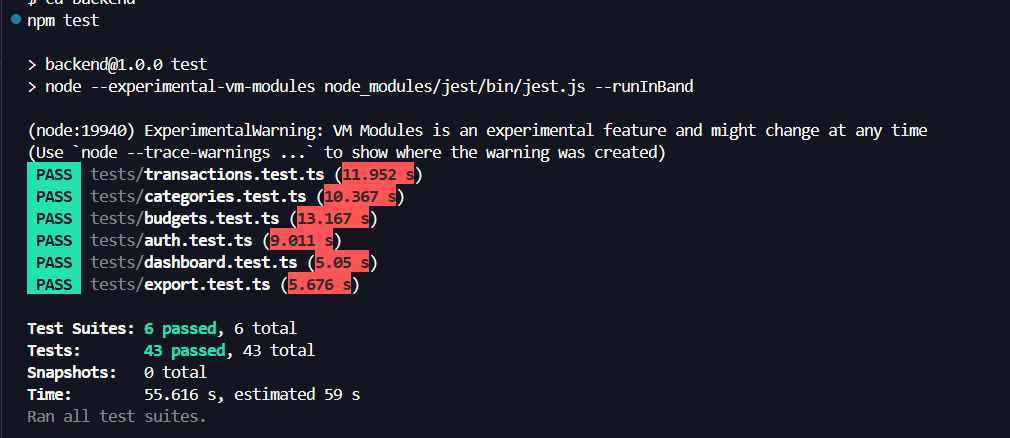
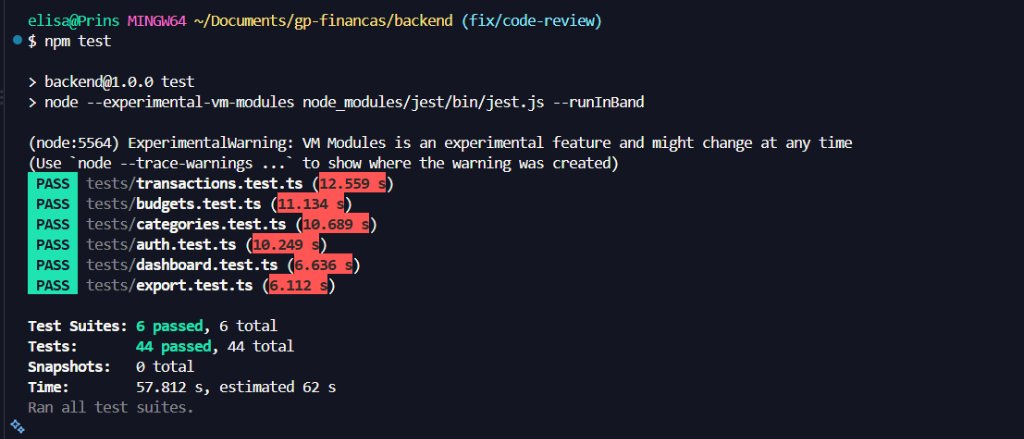
docs(readme): atualiza print para 44 testes e documenta schemas do Zod na estrutura

Changed region(s): [[0.0, 0.0, 0.9208, 0.6826], [0.0, 0.7123, 0.3683, 1.0]]

diff --git a/README.md b/README.md
@@ -221,7 +221,7 @@ gp-financas/
 │   │   ├── middlewares/     # Autenticação, rate limiting e tratamento de erros
 │   │   ├── routes/          # Definição das rotas da API
 │   │   ├── services/        # Envio de e-mail (Nodemailer)
-│   │   ├── utils/           # Helpers de autenticação, CSV e PDF
+│   │   ├── utils/           # Schemas de validação (Zod) e helpers de autenticação, CSV e PDF
 │   │   └── index.ts         # Ponto de entrada da aplicação
 │   ├── prisma/
 │   │   └── schema.prisma    # Modelagem do banco de dados
